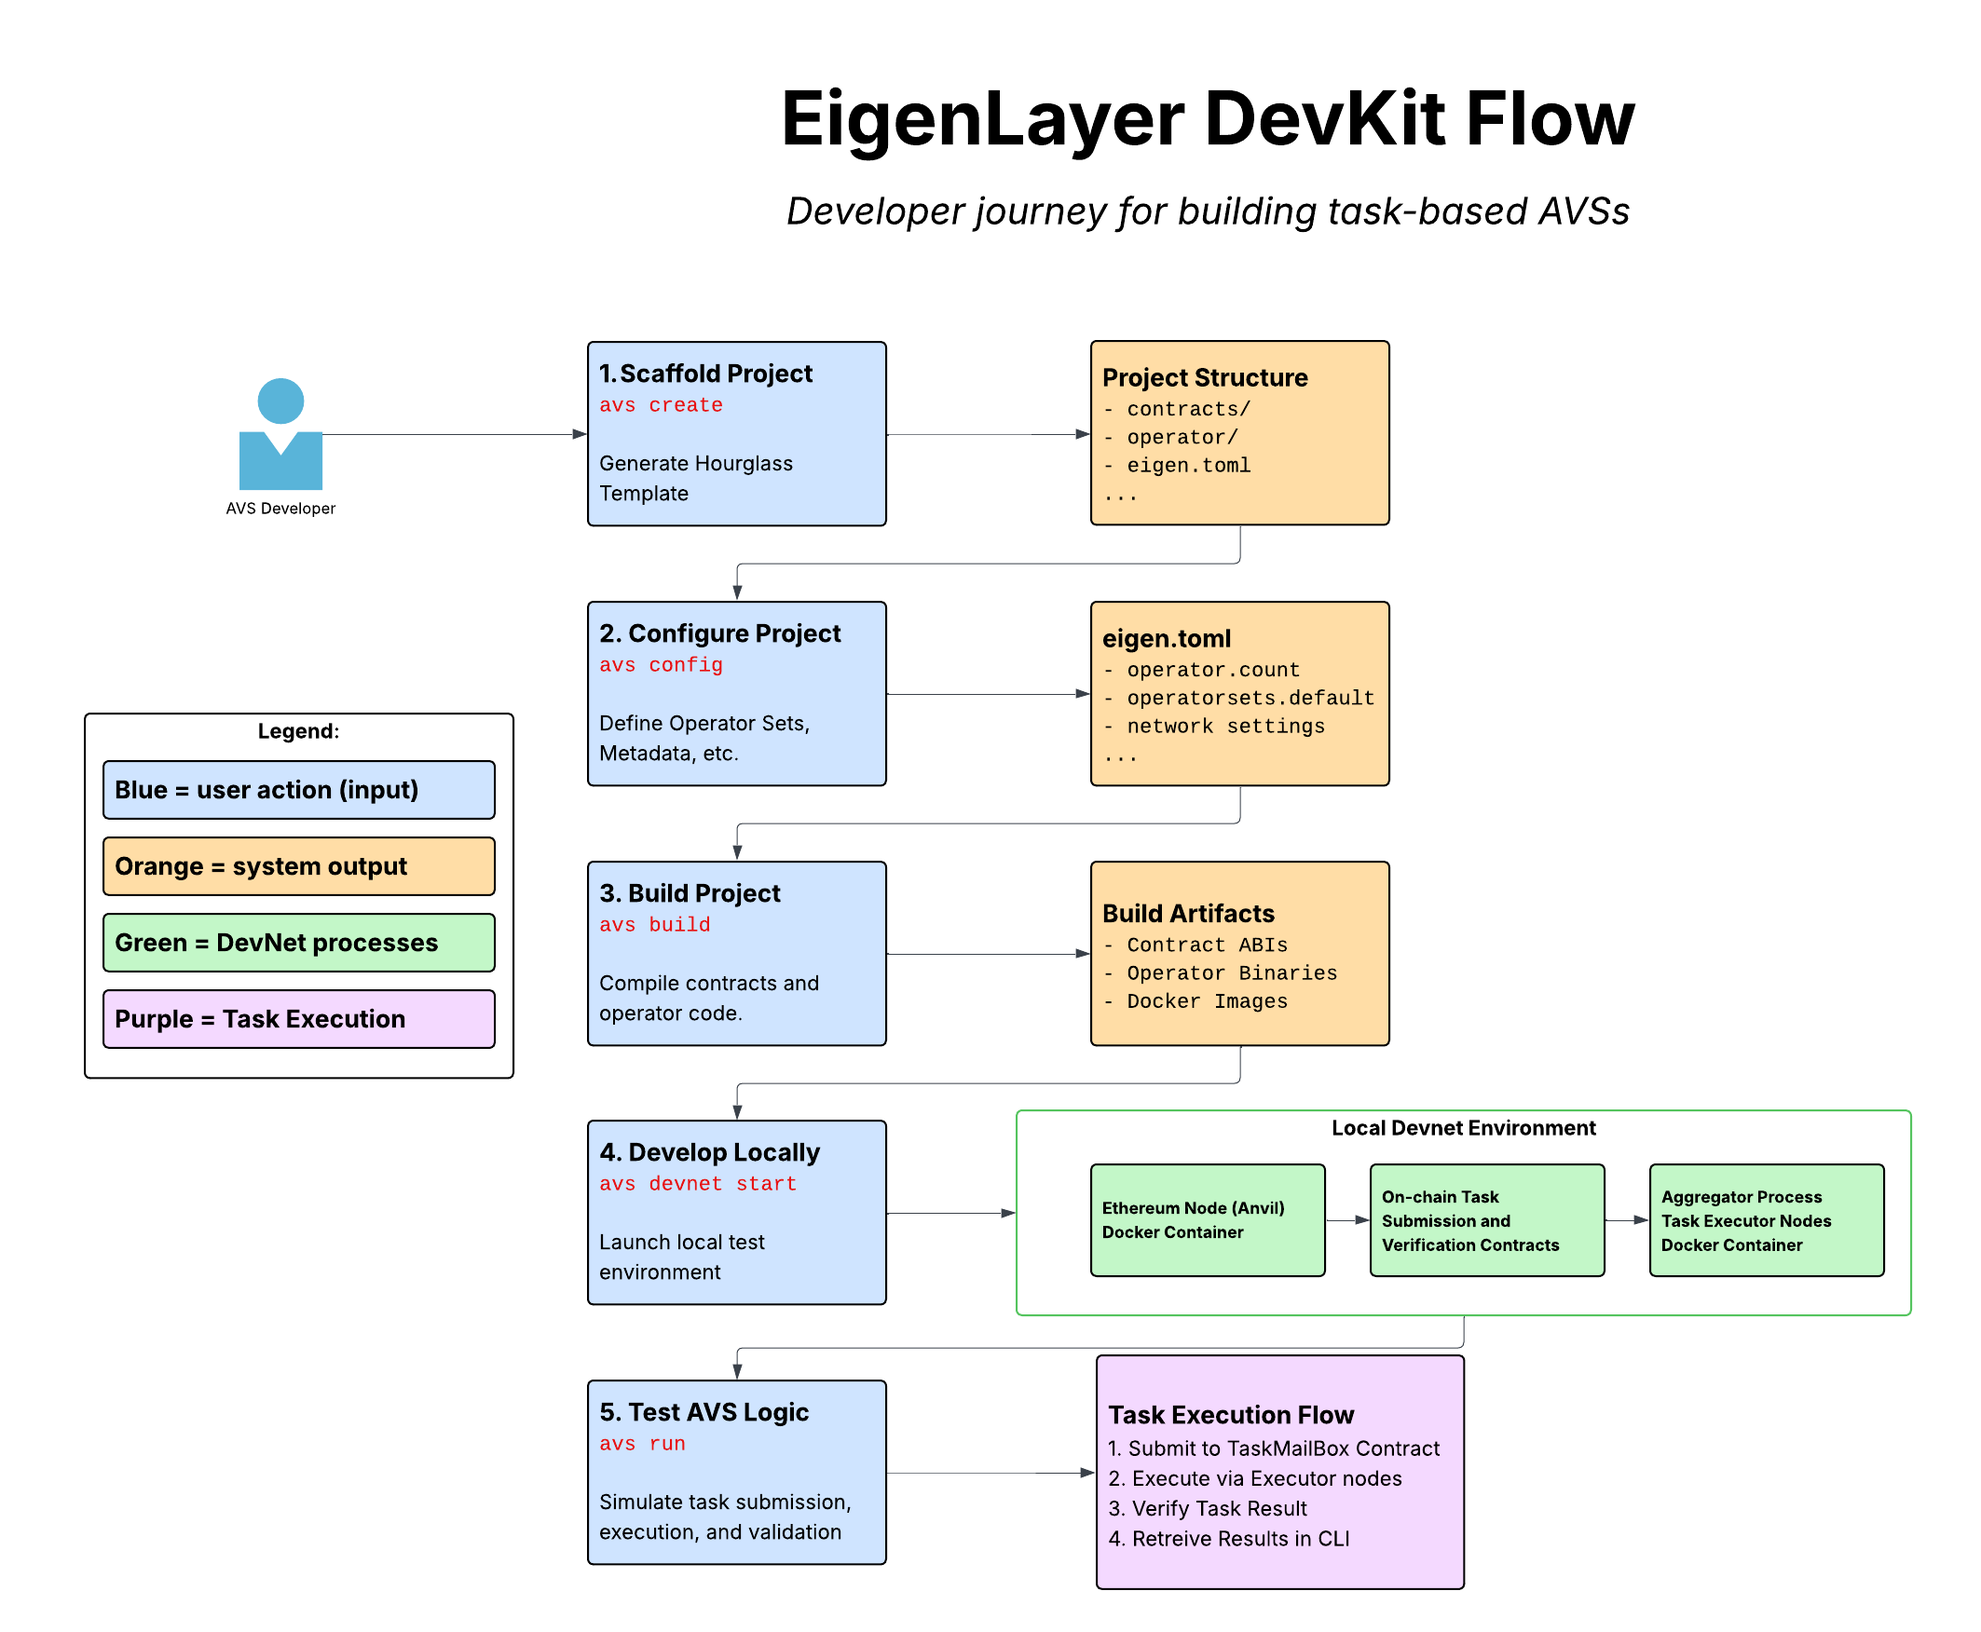
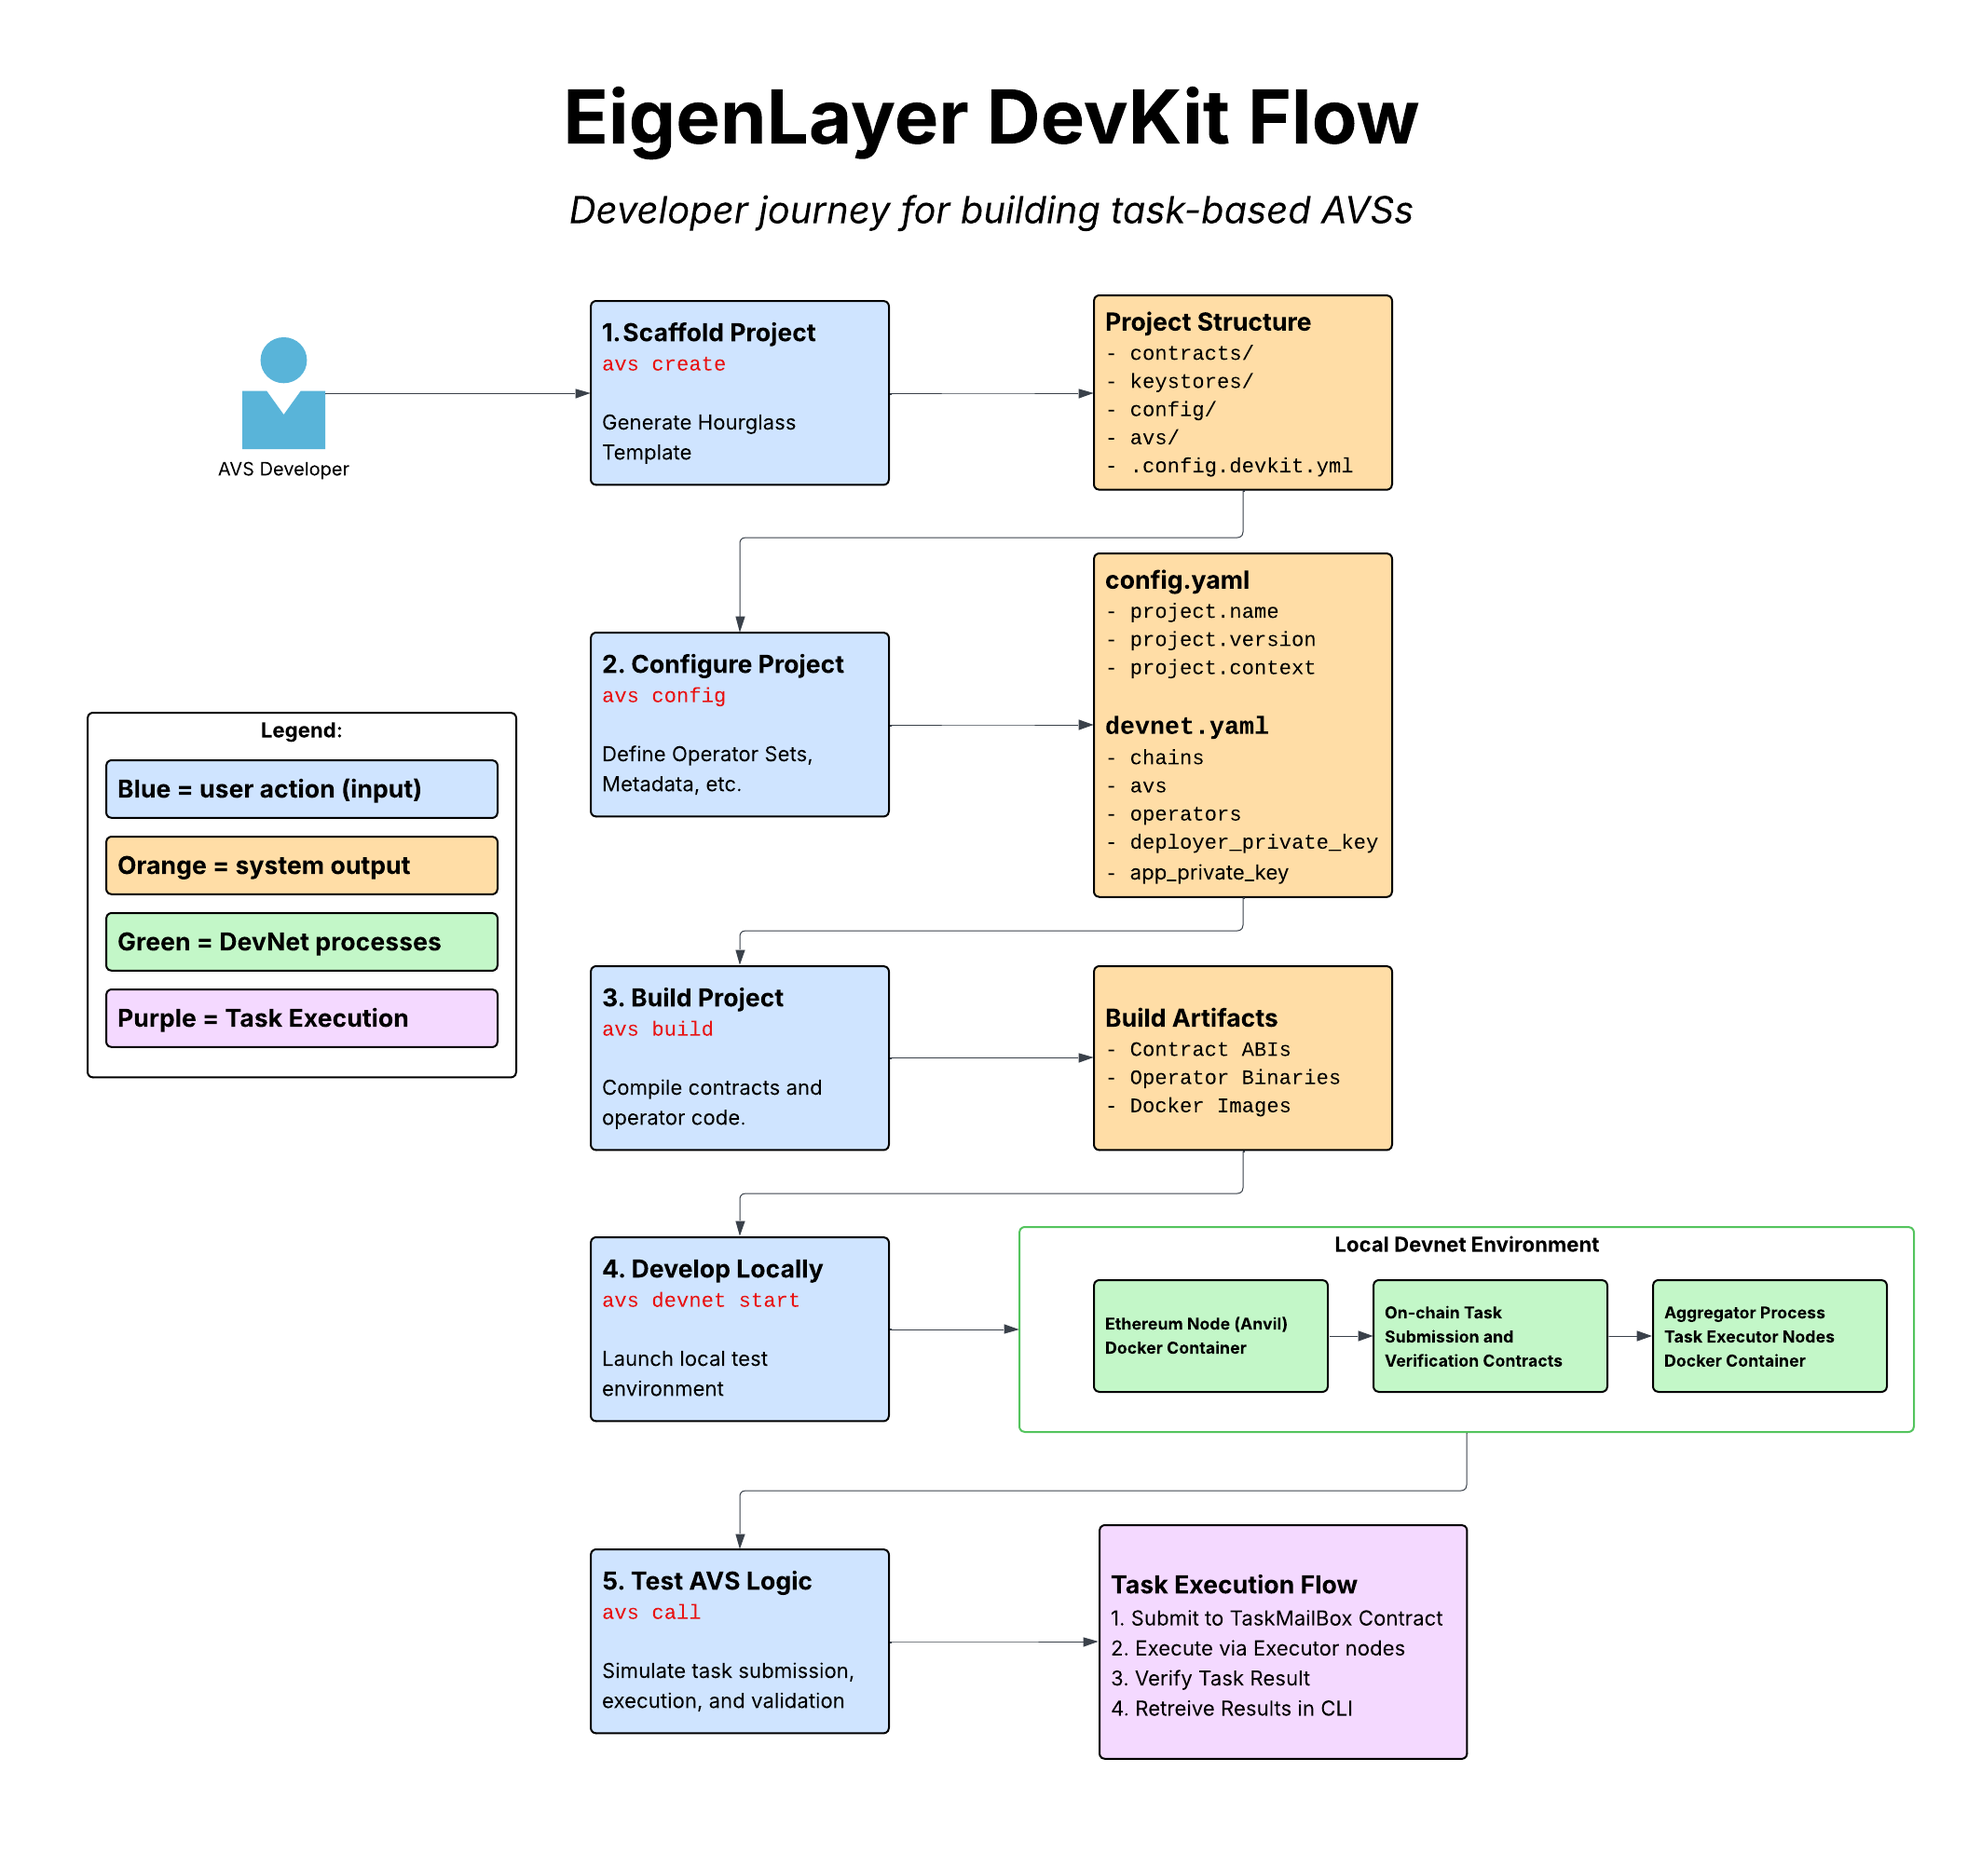
docs: README updates for private preview (#75)
**Motivation:**
<!--
Explain here the context, and why you're making that change. What is the
problem you're trying to solve.
-->
Made readme edits to prepare for customer feedback.
**Modifications:**
<!--
Describe the modifications you've done from a high level. What are the
key technical decisions and why were they made?
-->
Various edits to README.md and flowchart png to prepare for customers.
**Result:**
<!--
*After your change, what will change.
-->
N/A
**Testing:**
<!--
*List testing procedures taken and useful artifacts.
-->
N/A
**Open questions:**
<!--
(optional) Any open questions or feedback on design desired?
-->
N/A

---------

Changed region(s): [[0.031, 0.0308, 0.9624, 0.9863], [0.1242, 0.1849, 0.1863, 0.3082]]

diff --git a/README.md b/README.md
@@ -1,10 +1,13 @@
 # EigenLayer Development Kit (DevKit) 🚀
 
+## ⚠ Disclaimer: Closed Alpha Not Production Ready
+EigenLayer DevKit is currently in a closed alpha stage and is intended strictly for local experimentation and development. It has not been audited, and should not be used for use in any live environment, including public testnets or mainnet. Users are strongly discouraged from pushing generated projects to remote repositories without reviewing and sanitizing sensitive configuration files (e.g. devnet.yaml), which may contain private keys or other sensitive material.
+
 **A CLI toolkit for developing, testing, and managing EigenLayer Autonomous Verifiable Services (AVS).**
 
 EigenLayer DevKit streamlines AVS development, enabling you to quickly scaffold projects, compile contracts, run local networks, and simulate tasks with ease.
 
-![EigenLayer DevKit User Flow](https://github.com/user-attachments/assets/ae23e3f6-ce92-4204-a223-1ae5369a493b)
+![EigenLayer DevKit User Flow](assets/devkit-user-flow.png)
 
 
 
@@ -16,7 +19,6 @@ EigenLayer DevKit streamlines AVS development, enabling you to quickly scaffold 
 | `avs config` | Configure your AVS (`config/config.yaml`,`config/devnet.yaml`...)        |
 | `avs build`  | Compile AVS smart contracts and binaries |
 | `avs devnet` | Manage local development network         |
-| `avs run`    | Start offchain AVS components            |
 | `avs call`   | Simulate AVS task execution locally      |
 
 ---
@@ -52,7 +54,7 @@ devkit --help
 
 ### 🔑 Setup for Private Go Modules
 
-During this Private Preview (closed beta), you'll need access to private Go modules hosted on GitHub:
+During this Private Preview, you'll need access to private Go modules hosted on GitHub:
 
 1. **Add SSH Key to GitHub:** Ensure your SSH key is associated with your GitHub account ([instructions](https://docs.github.com/en/authentication/connecting-to-github-with-ssh/adding-a-new-ssh-key-to-your-github-account)).
 2. **Verify Repository Access:** Confirm with EigenLabs support that your account has access to necessary private repositories.
@@ -61,11 +63,11 @@ During this Private Preview (closed beta), you'll need access to private Go modu
 
 ## 🚧 Step-by-Step Guide
 
-### 1⃣ Create a New AVS Project
+### 1⃣ Create a New AVS Project (`avs create`)
 
-Quickly scaffold your new AVS project:
+Sets up a new AVS project with the recommended structure, configuration files, and boilerplate code. This helps you get started quickly without needing to manually organize files or determine a layout. Details:
 
-* Initializes a new project based on the default task-based architecture in Go.
+* Initializes a new project based on the default Hourglass task-based architecture in Go.
 * Generates boilerplate code and default configuration.
 
 Projects are created by default in the current directory from where the below command is called.
@@ -76,11 +78,17 @@ cd my-avs-project
 ```
 
 > \[!IMPORTANT]
-> All subsequent `devkit avs` commands must be run from the root of your AVS project—the directory containing the [config](https://github.com/Layr-Labs/devkit-cli/tree/main/config) folder . The `config` folder contains the base `config.yaml` with the `contexts` folder which houses the respective context yaml files , example `devnet.yaml`.
+> All subsequent `devkit avs` commands must be run from the root of your AVS project—the directory containing the [config](https://github.com/Layr-Labs/devkit-cli/tree/main/config) folder. The `config` folder contains the base `config.yaml` with the `contexts` folder which houses the respective context yaml files, example `devnet.yaml`.
 
-### 2⃣ Configure Your AVS (`config.yaml`,`devnet.yaml`)
+### 2⃣ Configure Your AVS (`avs config`)
 
-Customize project settings to define operators, network configurations, and more. You can configure this file either through the CLI or by manually editing the `config.yaml` and `contexts/devnet.yaml` files.
+Before running your AVS, you’ll need to configure both project-level and environment-specific settings. This is done through two configuration files:
+
+- **`config.yaml`**: Defines project-wide settings such as AVS name and context names.
+- **`contexts/devnet.yaml`**: Contains environment-specific settings for your a given context (i.e. devnet), including the Ethereum fork url, block height, operator keys, AVS keys, and other runtime parameters.
+
+You can view or modify these configurations using the DevKit CLI or by editing the files manually.
+
 View current settings via CLI:
 
 ```bash
@@ -93,14 +101,14 @@ Edit settings directly via CLI:
 devkit avs config --edit --path <path to the config.yaml or contexts/devnet.yaml file>
 ```
 
-Alternatively, manually edit `` in a text editor of your choice.
+Alternatively, manually edit the config files in the text editor of your choice.
 
 > \[!IMPORTANT]
 > These commands must be run from your AVS project's root directory.
 
 ### 3⃣ Build Your AVS
 
-Compile AVS smart contracts and binaries to prepare your service for local execution:
+Compiles your AVS contracts and offchain binaries. Required before running a devnet or simulating tasks to ensure all components are built and ready.
 
 * Compiles smart contracts using Foundry.
 * Builds operator, aggregator, and AVS logic binaries.
@@ -113,21 +121,25 @@ devkit avs build
 
 ### 4⃣ Launch Local DevNet
 
-Start a local Ethereum-based development network to simulate your AVS environment:
+Starts a local devnet to simulate the full AVS environment. This step deploys contracts, registers operators, and runs offchain infrastructure, allowing you to test and iterate without needing to interact with testnet or mainnet.
 
-* Forks ethereum mainnet using a fork url which the user passes along with the block number.
+* Forks Ethereum mainnet using a fork URL (provided by you) and a block number.
 * Automatically funds wallets (`operator_keys` and `submit_wallet`) if balances are below `10 ether`.
-* Setup required AVS contracts.
-* Initializes aggregator and executor processes.
+* Setup required `AVS` contracts.
+* Register `AVS` and `Operators`.
 
-> \[!IMPORTANT]
-> Please ensure your Docker daemon is running beforehand.
+> Note: You must provide a fork URL that forks from Ethereum mainnet. You can use any popular RPC provider such as QuickNode or Alchemy.
+
+This step is essential for simulating your AVS environment in a fully self-contained way, enabling fast iteration on your AVS business logic without needing to deploy to testnet/mainnet or coordinate with live operators.
 
 Run this from your project directory:
 
 ```bash
 devkit avs devnet start
 ```
+
+> \[!IMPORTANT]
+> Please ensure your Docker daemon is running before running this command.
 
 DevNet management commands:
 
@@ -140,10 +152,9 @@ DevNet management commands:
 | `stop --project.name`  | Stops the specific project's devnet                                  |
 | `stop --port`  | Stops the specific port .ex: `stop --port 8545`                                  |
 
-
 ### 5⃣ Simulate Task Execution (`avs call`)
 
-Test your AVS logic locally by simulating task execution:
+Triggers task execution through your AVS, simulating how a task would be submitted, processed, and validated. Useful for testing end-to-end behavior of your logic in a local environment.
 
 * Simulate the full lifecycle of task submission and execution.
 * Validate both off-chain and on-chain logic.
@@ -159,7 +170,35 @@ Optionally, submit tasks directly to the on-chain TaskMailBox contract via a fro
 
 ---
 
-## Bls keystore 
+## Optional Commands
+
+### Start offchain AVS infrastructure (`avs run`)
+
+Run your offchain AVS components locally.
+
+* Initializes the Aggregator and Executor Hourglass processes.
+
+This step is optional. The devkit `devkit avs devnet start` command already starts these components. However, you may choose to run this separately if you want to start the offchain processes without launching a local devnet — for example, when testing against a testnet deployment.
+
+> Note: Testnet support is not yet implemented, but this command is structured to support such workflows in the future.
+
+```bash
+devkit avs run
+```
+
+### Deploy AVS Contracts (`avs deploy-contract`)
+
+Deploy your AVS’s onchain contracts independently of the full devnet setup.
+
+This step is **optional**. The `devkit avs devnet start` command already handles contract deployment as part of its full setup. However, you may choose to run this command separately if you want to deploy contracts without launching a local devnet — for example, when preparing for a testnet deployment.
+
+> Note: Testnet support is not yet implemented, but this command is structured to support such workflows in the future.
+
+```bash
+devkit avs deploy-contract
+```
+
+### Create Operator Keys (`avs keystore`)
 Create and read keystores for bn254 private keys using the CLI. 
 
 - To create a keystore
@@ -172,12 +211,12 @@ devkit keystore create --key --path --password
 devkit keystore read --path --password
 ```
 
-### Flag Descriptions
+**Flag Descriptions**
 - **`key`**: Private key in BigInt format . Example: `5581406963073749409396003982472073860082401912942283565679225591782850437460` 
 - **`path`**: Path to the json file. It needs to include the filename . Example: `./keystores/operator1.keystore.json`
 - **`password`**: Password to encrypt/decrypt the keystore.
 
-## 📖 Logging
+### 📖 Logging (`--verbose`)
 
 <!-- 
 @TODO: bring this back when we reintroduce config log levels
@@ -196,39 +235,13 @@ devkit avs build --verbose
 
 ---
 
-## 🌍 Environment Variables
-
-The DevKit CLI automatically loads environment variables from a `.env` file in your project directory:
-
-- If a `.env` file exists in your project directory, its variables will be loaded for all commands except `create`
-- Template repositories should include a `.env.example` file that you can copy to `.env` and modify
-- This is useful for storing configuration that shouldn't be committed to version control (API keys, private endpoints, etc.)
-
-Example workflow:
-```bash
-# After creating a project from a template
-cd my-avs-project
-
-# Copy the example env file (if provided by the template)
-cp .env.example .env
-
-# Edit with your specific values
-nano .env
-
-# Run commands - the .env file will be automatically loaded
-devkit avs build
-devkit avs devnet start
-devkit avs run
-devkit avs call --params payload=1
-```
-
----
-
 ## 🤝 Contributing
 
 Contributions are welcome! Please open an issue to discuss significant changes before submitting a pull request.
 
-## Release Process
+---
+
+## For DevKit Maintainers: DevKit Release Process
 To release a new version of the CLI, follow the steps below:
 > Note: You need to have write permission to this repo to release new version
 
